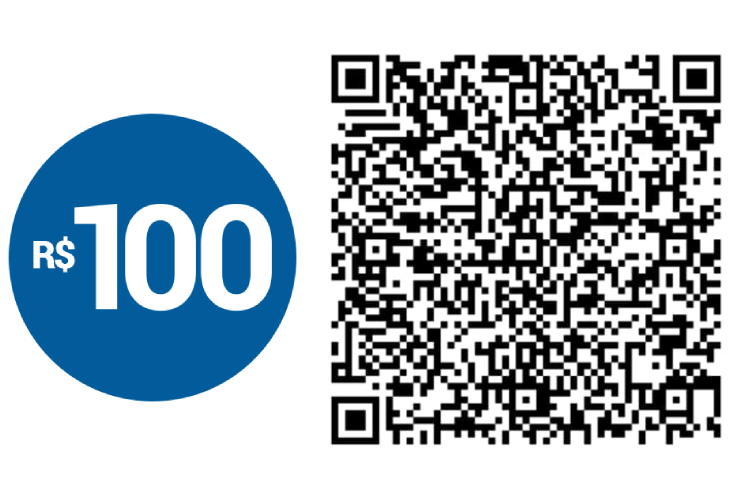
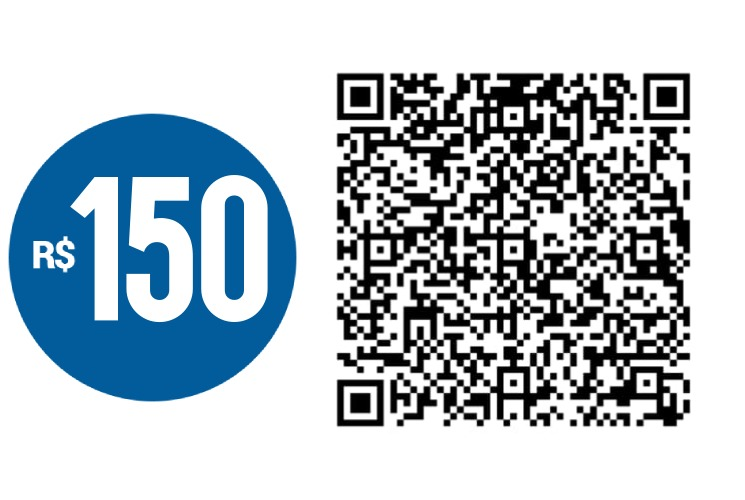
:fire: ajusta valor pix

diff --git a/pages/pix.jsx b/pages/pix.jsx
@@ -3,8 +3,8 @@ import { ToastContainer, toast } from 'react-toastify';
 import 'react-toastify/dist/ReactToastify.css';
 
 const Pix = () => {
-
-  const numeroPagamento = '00020101021126650014br.gov.bcb.pix0114+556299608300402251* - Lote Casa Edificada 5204000053039865406100.005802BR5925ALEXSANDRA RODRIGUES FREI6009SAO PAULO622905251HWT4R5A4ARYXTBWMHK9SW6A4630414C6';
+  // 00020101021126650014br.gov.bcb.pix0114+556299608300402251* - Lote Casa Edificada 5204000053039865406100.005802BR5925ALEXSANDRA RODRIGUES FREI6009SAO PAULO622905251HWT4R5A4ARYXTBWMHK9SW6A4630414C6
+  const numeroPagamento = '00020101021126360014br.gov.bcb.pix0114+55629960830045204000053039865406150.005802BR5925ALEXSANDRA RODRIGUES FREI6009SAO PAULO622905251J4J7QQJFDGMW1CY50BDRPFDQ6304D06E';
 
   const toastSuccess = () => toast.success('Pix cópiado com sucesso!');
 
@@ -25,7 +25,8 @@ const Pix = () => {
           textAlign: 'center',
           padding: '3px'
         }}
-        defaultValue='00020101021126650014br.gov.bcb.pix0114+556299608300402251* - Lote Casa Edificada 5204000053039865406100.005802BR5925ALEXSANDRA RODRIGUES FREI6009SAO PAULO622905251HWT4R5A4ARYXTBWMHK9SW6A4630414C6'
+        // 00020101021126650014br.gov.bcb.pix0114+556299608300402251* - Lote Casa Edificada 5204000053039865406100.005802BR5925ALEXSANDRA RODRIGUES FREI6009SAO PAULO622905251HWT4R5A4ARYXTBWMHK9SW6A4630414C6
+        defaultValue='00020101021126360014br.gov.bcb.pix0114+55629960830045204000053039865406150.005802BR5925ALEXSANDRA RODRIGUES FREI6009SAO PAULO622905251J4J7QQJFDGMW1CY50BDRPFDQ6304D06E'
       />
       <br></br>
       <h4> ALESSANDRA RODRIGUES FREITAS ANDRADE <span style={{ color: 'red' }}></span></h4>

diff --git a/components/Header.jsx b/components/Header.jsx
@@ -94,7 +94,7 @@ const Header = ({ openModal, closeModal, modalIsOpen }) => {
       /* Usando o -> https://sheet.best/api/sheets  
       https://sheet.best/api/sheets/240f5049-3487-451b-97fb-809f1bdbb80d
       */
-      const response = await fetch("https://sheetdb.io/api/v1/6hwujluxee6pr", {
+      const response = await fetch("https://sheetdb.io/api/v1/6hwujluxee6", {
         method: 'POST',
         mode: 'cors',
         headers: {
@@ -124,6 +124,10 @@ const Header = ({ openModal, closeModal, modalIsOpen }) => {
 
         setTimeout(() => closeModal(), setTimeout(() => toggleModal(), 200));
 
+      } else {
+        //setSuccessMessage(`${data.created === 1 ? 'Cadastrado com sucesso' : 'Error ao cadastrar'}`); //usado no https://sheetdb.io
+        //setSuccessMessage(data[0].name + ' Cadastrado com sucesso!'); //usado no https://sheet.best/api/sheets 
+        alert('Erro ao se cadastrar')
       }
     } catch (error) {
       setLoading(false);
